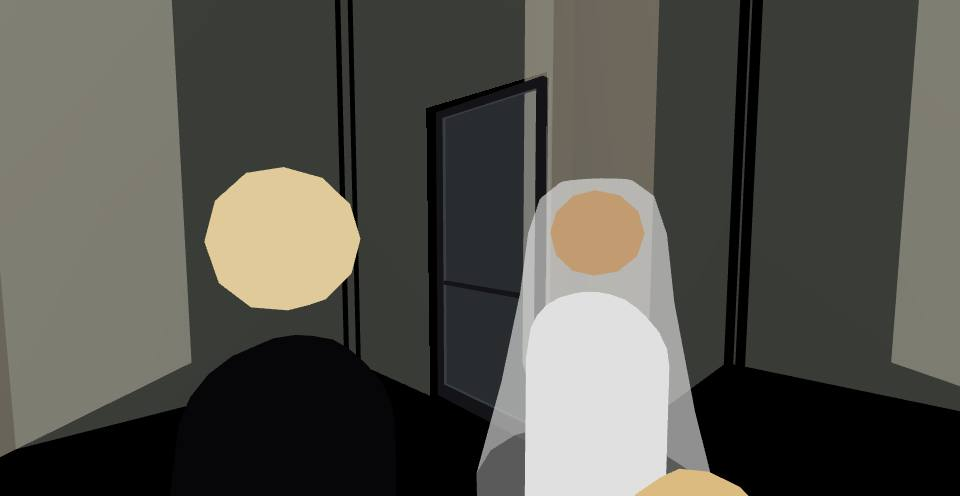
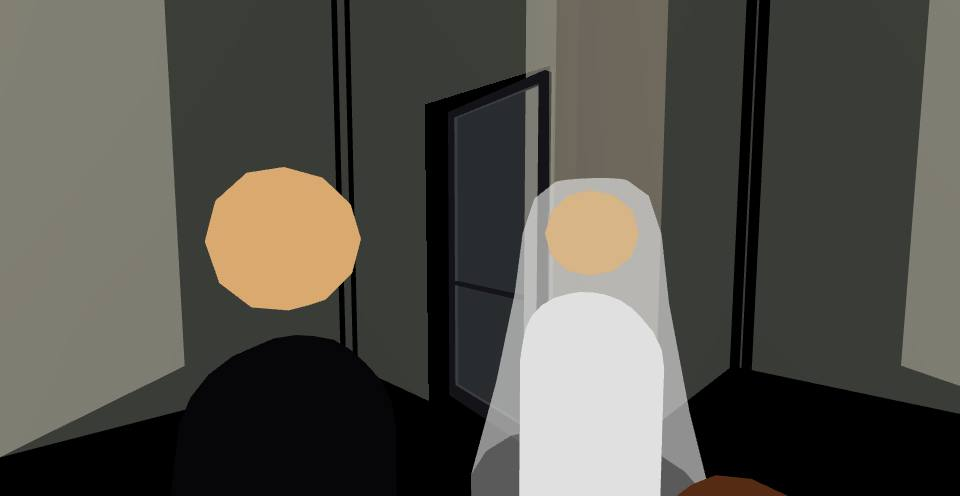
Shot 8 (Lloyd's note, V8) ends at 10.4 s, mid-aisle, fading out over its last 1.5 s into the finale

diff --git a/index.html b/index.html
@@ -3671,7 +3671,8 @@ function tourSegments(){ const uM=EVENT.wallLen/2, c=EVENT.cols;
   {mode:'wedding',dur:14, cam:k=>{ withTitles(glide(EP(uM,1.7,14.2),EP(uM,1.5,6.4),EP(uM,1.5,3.5),EP(uM,1.25,3.5)),14,TX('wedding-aisle'))(k); if(wedding)wedding.cer=k*14; }},
   // Celebrate starts the walk; the camera keeps 3.5 m behind the couple, at their shoulder height
   // (Lloyd, V6) the shot cuts at 23 s, fading out over its last 1.5 s, and the finale fades in
-  {celebrate:true,dur:23, cam:k=>{ const tw=k*23, cp=couple(tw), ahead=couple(Math.min(26,tw+1.5)); veil(smooth(Math.max(0,Math.min(1,(tw-21.5)/1.5))));
+  // (Lloyd, V8) the shot ends at 10.4 s, mid-aisle, fading out over its last 1.5 s into the finale
+  {celebrate:true,dur:10.4, cam:k=>{ const tw=k*10.4, cp=couple(tw), ahead=couple(Math.min(26,tw+1.5)); veil(smooth(Math.max(0,Math.min(1,(tw-8.9)/1.5))));
     // (Lloyd, V3) no sculpture outside the glass in this shot
     const back=cp.d-3.6, u=tw<=20?uM:cp.u-(cp.u-uM)*0.35; poseAt(EP(u,1.8,Math.max(3.0,back)),EP(ahead.u,1.3,ahead.d)); if(court)court.visible=false;
     confettiUntil=Math.max(confettiUntil,performance.now()/1000+0.3); }},   /* (Lloyd, V5) the guests keep jumping the whole walk */
